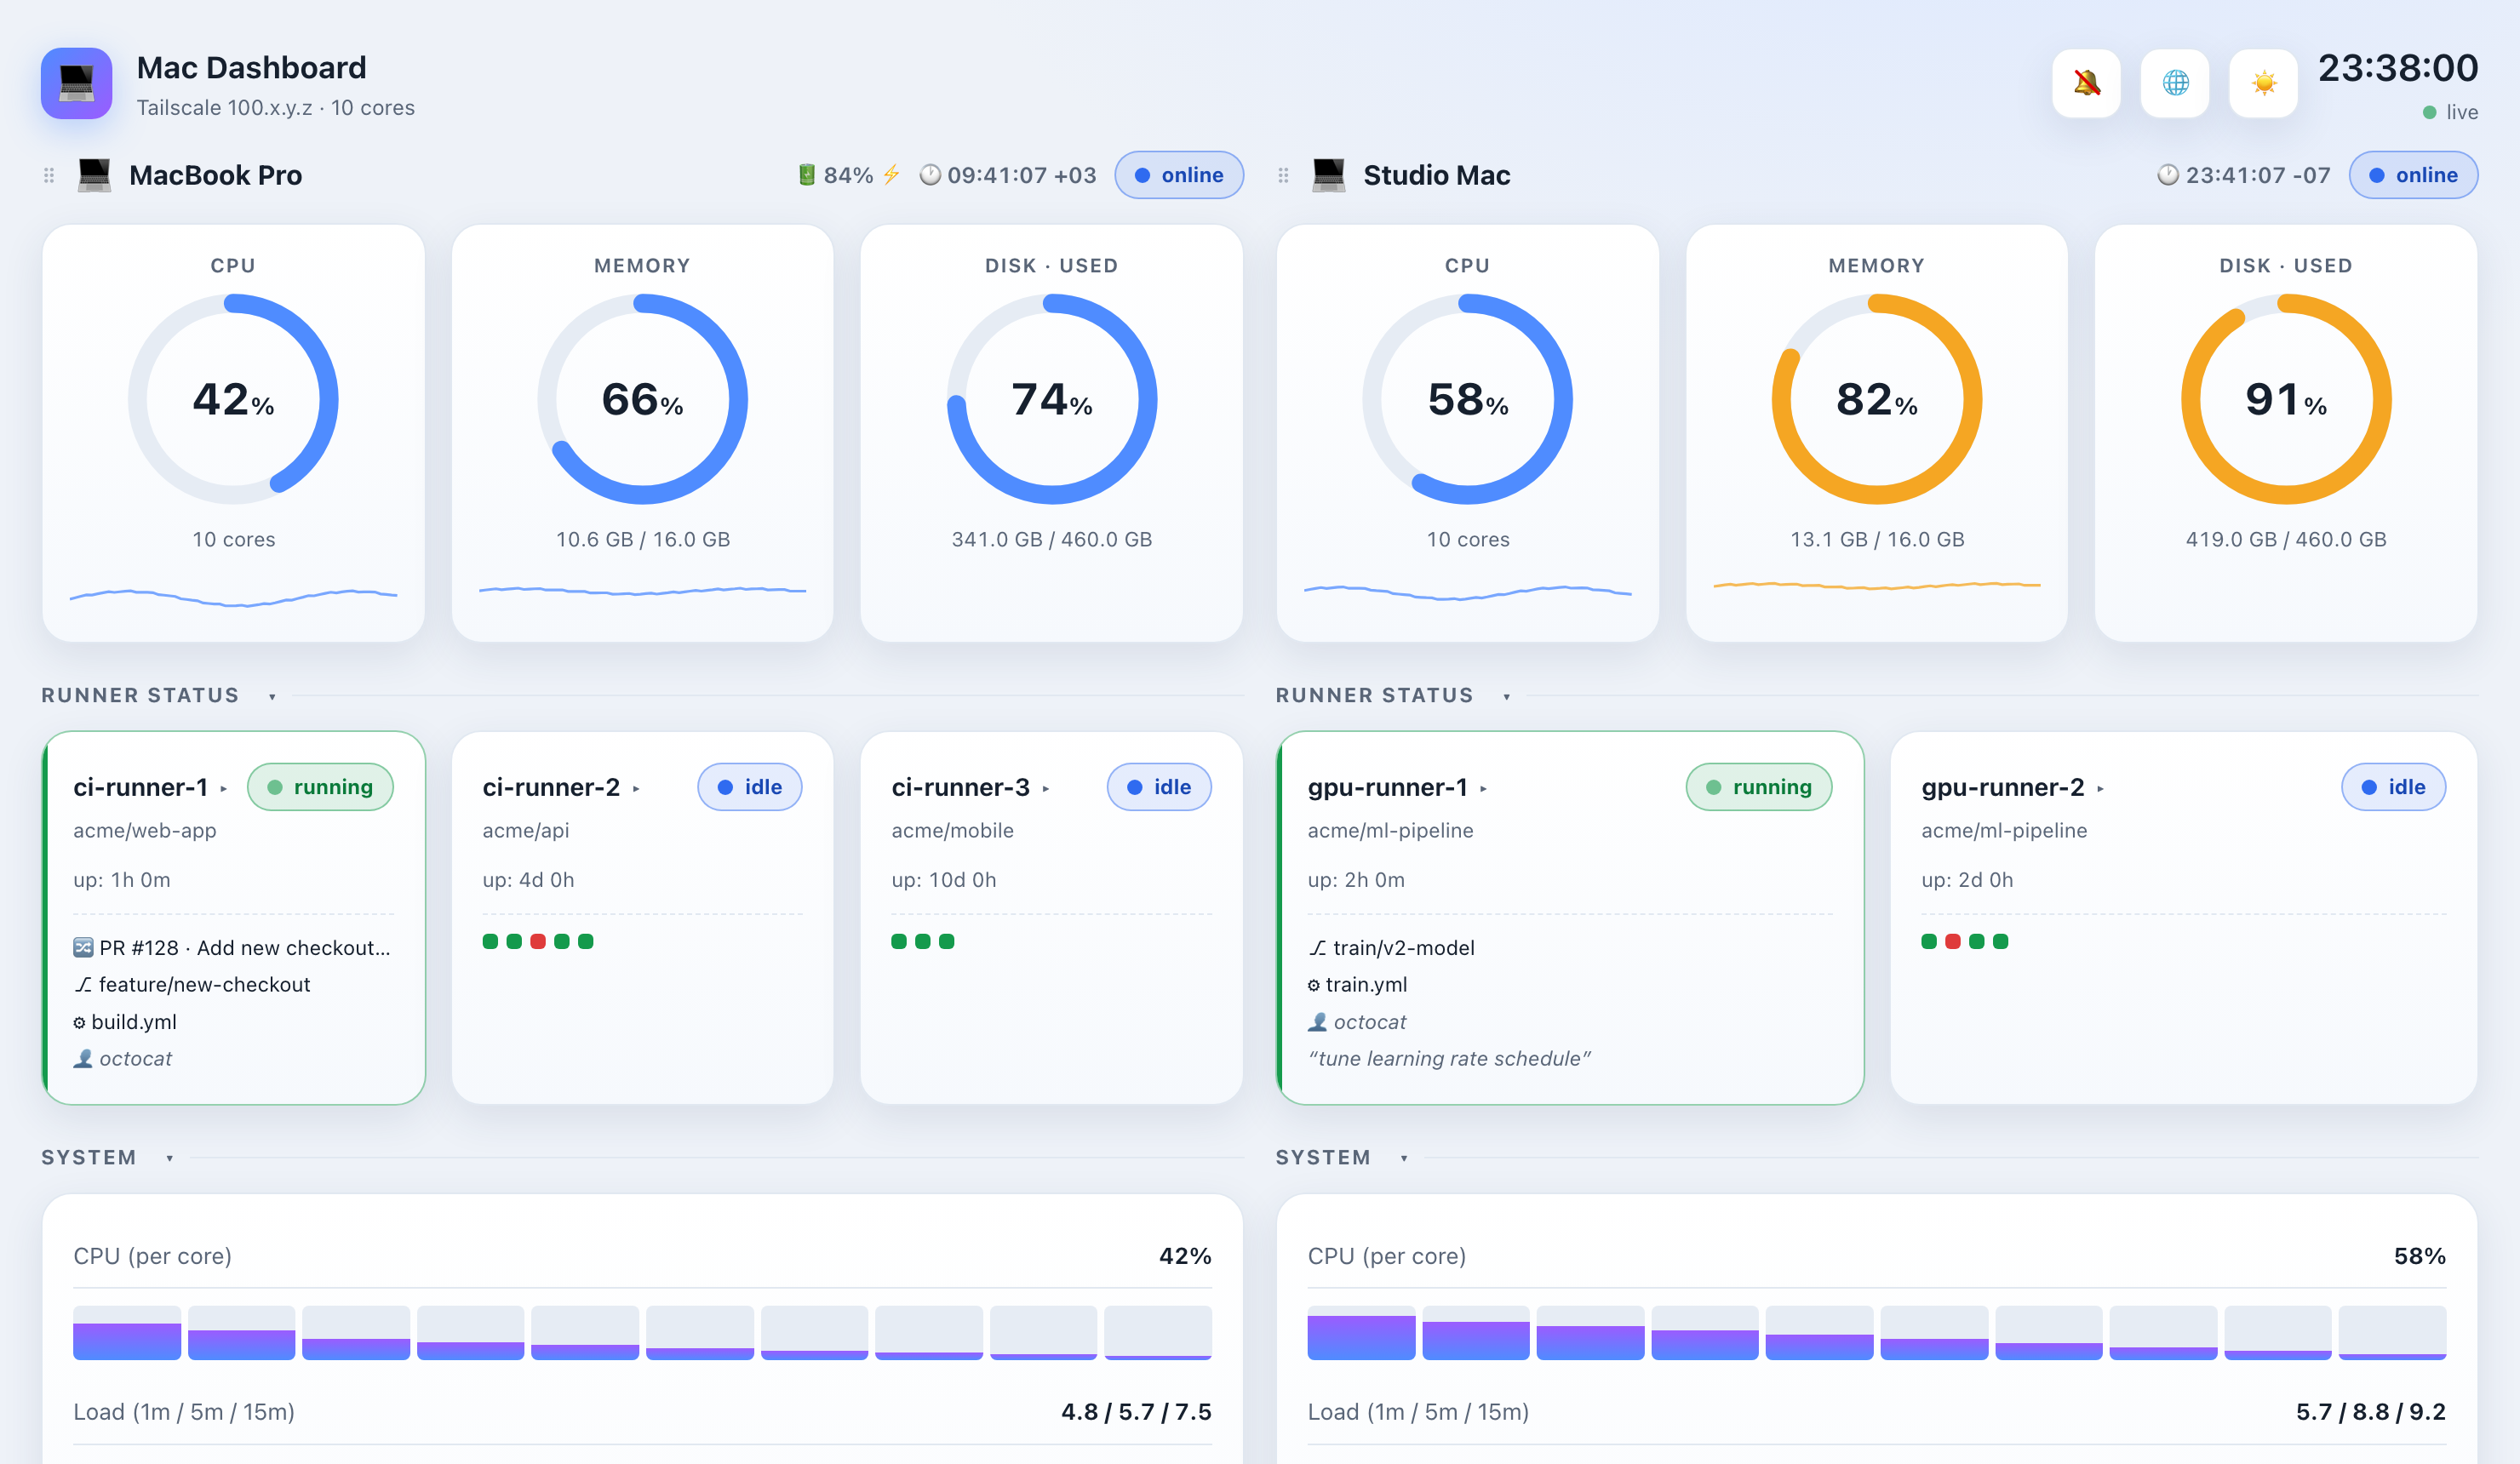
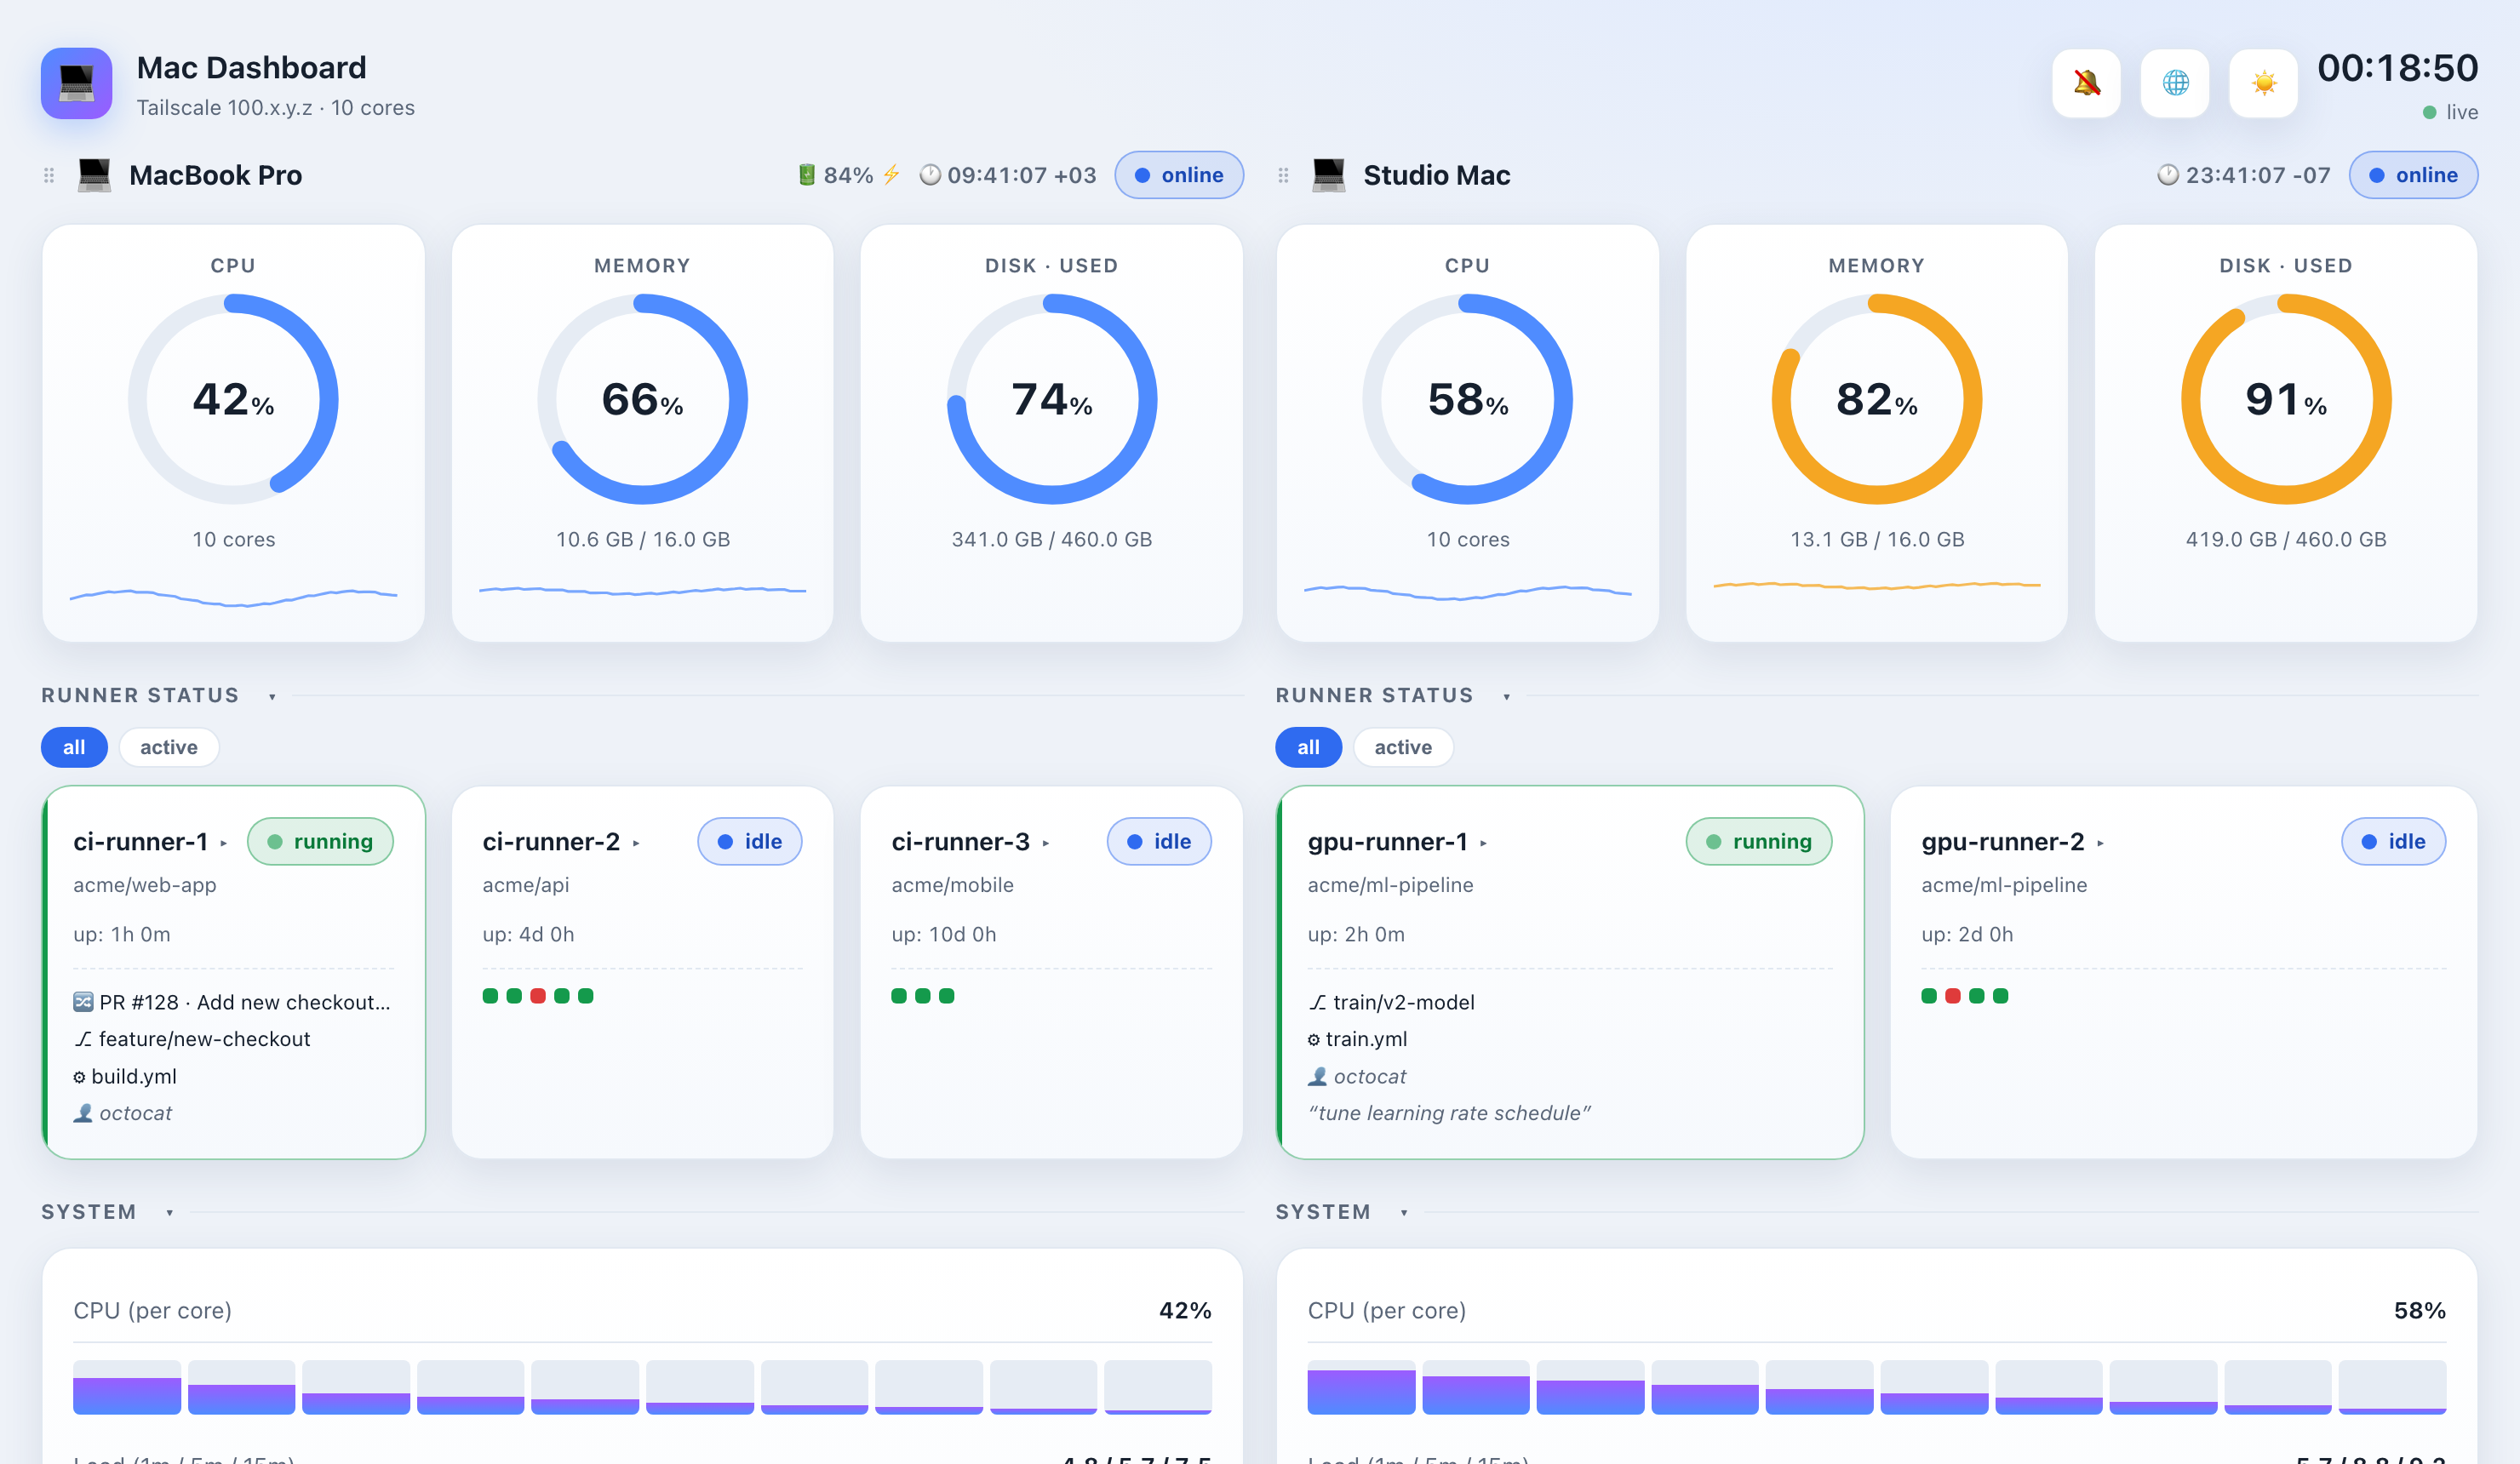
feat: night theme, runner all/active filter, chart crosshair, run tooltips (v1.7.0)
- Night theme: dimmed, desaturated, motion-free; toggle cycles auto→light→dark→night.
- Runner status filter: all vs active (busy) only.
- Time-series chart hover crosshair (value + time at cursor).
- Recent-run rows carry a full tooltip (workflow · branch/PR · result · duration ·
  exact date-time).
- Footer credit.

Claude-Session: https://claude.ai/code/session_01KFoMpwp6bskHCvmZus2cit

diff --git a/index.html b/index.html
@@ -13,8 +13,9 @@
 <link rel="apple-touch-icon" href="icon-180.png">
 <link rel="icon" type="image/png" sizes="192x192" href="icon-192.png">
 <script>(function(){var u=new URLSearchParams(location.search).get('theme');
-  var p=(u==='light'||u==='dark')?u:(localStorage.getItem('sysdash-theme')||'auto');
-  var d=(p==='light'||p==='dark')?p:(matchMedia('(prefers-color-scheme: dark)').matches?'dark':'light');
+  var x=function(v){return v==='light'||v==='dark'||v==='night'};
+  var p=x(u)?u:(localStorage.getItem('sysdash-theme')||'auto');
+  var d=x(p)?p:(matchMedia('(prefers-color-scheme: dark)').matches?'dark':'light');
   document.documentElement.dataset.theme=d;})();</script>
 <style>
   :root{
@@ -39,6 +40,20 @@
     --pill-busy-fg:#0a7a3a; --pill-busy-bg:rgba(20,154,76,.13); --pill-busy-bd:rgba(20,154,76,.45);
     --pill-off-fg:#52607a; --pill-off-bg:rgba(90,102,120,.12); --pill-off-bd:rgba(90,102,120,.4);
   }
+  /* night: very dark, low-contrast, desaturated, no motion — for working at night */
+  :root[data-theme="night"]{
+    --bg:#04060a; --panel:#080b10; --panel2:#0a0e14; --line:#161c26;
+    --txt:#8b97a8; --muted:#525d6e; --accent:#5777a0;
+    --green:#487a5f; --amber:#8f7740; --red:#9e5a5a; --gray:#384150;
+    --track:#090d12;
+    --bggrad:#04060a;
+    --shadow:none;
+    --pill-idle-fg:#7e93b3; --pill-idle-bg:rgba(87,119,160,.12); --pill-idle-bd:rgba(87,119,160,.3);
+    --pill-busy-fg:#6fae8c; --pill-busy-bg:rgba(72,122,95,.12); --pill-busy-bd:rgba(72,122,95,.3);
+    --pill-off-fg:#5b6677; --pill-off-bg:rgba(60,70,86,.14); --pill-off-bd:rgba(60,70,86,.35);
+  }
+  :root[data-theme="night"] *{animation:none!important}          /* no pulsing/motion */
+  :root[data-theme="night"] .wrap{filter:saturate(.6)}          /* calmer, less colorful */
   *{box-sizing:border-box;margin:0;padding:0}
   body{
     background:var(--bggrad);
@@ -145,6 +160,9 @@
   .pill.idle{color:var(--pill-idle-fg);background:var(--pill-idle-bg);border-color:var(--pill-idle-bd)}
   .pill.idle .d{background:var(--accent)}
   .pill.offline{color:var(--pill-off-fg);background:var(--pill-off-bg);border-color:var(--pill-off-bd)}
+  .runfilter{display:flex;gap:6px;margin:-2px 0 10px}
+  .rf{cursor:pointer;border:1px solid var(--line);background:var(--panel);color:var(--muted);font-size:12px;font-weight:600;padding:4px 12px;border-radius:999px;transition:background .2s,color .2s}
+  .rf.on{background:var(--accent);border-color:var(--accent);color:#fff}
   .pill.stale{color:var(--amber);background:rgba(245,166,35,.13);border-color:rgba(245,166,35,.4)}
   .pill.stale .d{background:var(--amber)}
   .pill.offline .d{background:var(--gray)}
@@ -254,8 +272,9 @@ const T = {
     live:'live', noConn:'no connection',
     highUse:'High usage:', refresh:'refreshes every 1s',
     online:'online', offline:'offline', stale:'stale', unreachable:'unreachable',
+    fAll:'all', fActive:'active', noActive:'No active runners',
     addMachine:'＋ machine', addUrl:'Machine address (IP or URL) — e.g. 100.121.169.10',
-    themeNames:{auto:'system', light:'light', dark:'dark'},
+    themeNames:{auto:'system', light:'light', dark:'dark', night:'night'},
     langName:'Language', dunit:{d:'d', h:'h', m:'m'},
   },
   tr: {
@@ -270,8 +289,9 @@ const T = {
     live:'canlı', noConn:'bağlantı yok',
     highUse:'Yüksek kullanım:', refresh:'her 1 sn yenilenir',
     online:'çevrimiçi', offline:'çevrimdışı', stale:'bayat', unreachable:'ulaşılamıyor',
+    fAll:'tümü', fActive:'aktif', noActive:'Aktif runner yok',
     addMachine:'＋ makine', addUrl:'Makine adresi (IP veya URL) — örn. 100.121.169.10',
-    themeNames:{auto:'sistem', light:'açık', dark:'koyu'},
+    themeNames:{auto:'sistem', light:'açık', dark:'koyu', night:'gece'},
     langName:'Dil', dunit:{d:'g', h:'s', m:'d'},
   },
 };
@@ -304,15 +324,15 @@ const mq=window.matchMedia('(prefers-color-scheme: dark)');
 function themePref(){return localStorage.getItem(TKEY)||'auto'}
 function applyTheme(){
   const u=new URLSearchParams(location.search).get('theme');
-  const p=(u==='light'||u==='dark')?u:themePref();
+  const p=(u==='light'||u==='dark'||u==='night')?u:themePref();
   const resolved=p==='auto'?(mq.matches?'dark':'light'):p;
   document.documentElement.dataset.theme=resolved;
-  tbtn.textContent = p==='auto'?'🌓':p==='light'?'☀️':'🌙';
+  tbtn.textContent = p==='auto'?'🌓':p==='light'?'☀️':p==='dark'?'🌙':'🌃';
   tbtn.title='Theme: '+t.themeNames[p];
 }
 tbtn.addEventListener('click',()=>{
-  const order=['auto','light','dark'];
-  localStorage.setItem(TKEY, order[(order.indexOf(themePref())+1)%3]);
+  const order=['auto','light','dark','night'];
+  localStorage.setItem(TKEY, order[(order.indexOf(themePref())+1)%order.length]);
   applyTheme();
 });
 mq.addEventListener('change',()=>{if(themePref()==='auto')applyTheme();});
@@ -410,6 +430,8 @@ function ringHTML(label,pct,meta,spark,chart){
   </div>`;
 }
 // collapsible sections (global across machines)
+function runFilter(){return localStorage.getItem('sysdash-runfilter')||'all'}
+function setRunFilter(v){localStorage.setItem('sysdash-runfilter',v);renderAll();}
 function collapseState(){try{return JSON.parse(localStorage.getItem('sysdash-collapse'))||{}}catch(e){return {}}}
 function isCollapsed(k){return !!collapseState()[k]}
 function toggleCollapse(k){const s=collapseState();s[k]=!s[k];localStorage.setItem('sysdash-collapse',JSON.stringify(s));renderAll();}
@@ -432,7 +454,9 @@ function machineHTML(host, entry){
     body = `<div class="card offline-card">⚠️ ${t.unreachable}<br><span style="font-size:12px">${host.base||''}</span></div>`;
   } else {
     const kv=(label,pct,txt)=>`<div class="kv"><span class="k">${label}</span><span class="v ${pct>=CRIT?'crit':''}">${txt}</span></div>`;
-    const runners = s.runners.length ? s.runners.map((r,ri)=>{
+    const rf=runFilter();
+    const rows=s.runners.map((r,ri)=>{
+      if(rf==='active' && r.status!=='busy') return '';
       return `<div class="card runner clickable ${r.status}" data-base="${esc(host.base)}" data-ri="${ri}" title="${L==='tr'?'detay için tıkla':'click for details'}">
         <div class="row1"><div class="name">${esc(r.name)}<span class="ext">▸</span></div>
           <span class="pill ${r.status}"><span class="d"></span>${t.st[r.status]}</span></div>
@@ -441,7 +465,13 @@ function machineHTML(host, entry){
         ${r.job?jobHTML(r.job):''}
         ${historyHTML(r.history)}
       </div>`;
-    }).join('') : `<div class="card" style="color:var(--muted);grid-column:1/-1">${t.noRunners}</div>`;
+    }).filter(Boolean);
+    const runners = rows.length ? rows.join('')
+      : `<div class="card" style="color:var(--muted);grid-column:1/-1">${rf==='active'?t.noActive:t.noRunners}</div>`;
+    const runnersInner = `<div class="runfilter">
+        <button class="rf ${rf==='all'?'on':''}" data-rf="all">${t.fAll}</button>
+        <button class="rf ${rf==='active'?'on':''}" data-rf="active">${t.fActive}</button>
+      </div><div class="grid runners">${runners}</div>`;
     const maxr=Math.max(...s.top.map(p=>p.rss),1);
     const sysInner = `<div class="card">
         <div class="kv"><span class="k">${t.perCore}</span><span class="v">${s.cpu.pct.toFixed(0)}%</span></div>
@@ -466,7 +496,7 @@ function machineHTML(host, entry){
         ${ringHTML(t.mem, s.mem.pct, gb(s.mem.used)+' / '+gb(s.mem.total), s.hist&&s.hist.mem, host.base+'|mem')}
         ${ringHTML(t.diskUsed, s.disk.pct, gb(s.disk.used)+' / '+gb(s.disk.total), s.hist&&s.hist.disk, host.base+'|disk')}
       </div>
-      ${sec('runners', t.runners, `<div class="grid runners">${runners}</div>`)}
+      ${sec('runners', t.runners, runnersInner)}
       ${sec('system', t.system, sysInner)}
       ${sec('procs', t.topMem, topInner)}`;
   }
@@ -512,7 +542,7 @@ function renderAll(){
   const self=lastData[''];
   document.getElementById('subtitle').textContent = self&&self.online ? t.sub(self.data.tailscale_ip, self.data.cpu.count) : '';
   document.getElementById('machines').innerHTML = hosts().map(h=>machineHTML(h, lastData[h.base])).join('');
-  document.getElementById('foot').textContent='sysdash'+(self&&self.online&&self.data.version?' v'+self.data.version:'')+' · '+t.refresh;
+  document.getElementById('foot').textContent='sysdash'+(self&&self.online&&self.data.version?' v'+self.data.version:'')+' · '+t.refresh+' · © Berkay Turancı';
   computeAlerts();
 }
 
@@ -546,6 +576,7 @@ mWrap.addEventListener('dragover',e=>{if(dragBase==null)return;e.preventDefault(
 mWrap.addEventListener('drop',e=>{if(dragBase==null)return;e.preventDefault();const m=e.target.closest('.machine');if(m){const order=hosts().map(h=>h.base).filter(b=>b!==dragBase);const ti=order.indexOf(m.dataset.base);order.splice(ti<0?order.length:ti,0,dragBase);setOrder(order);}dragBase=null;isDragging=false;renderAll();});
 mWrap.addEventListener('dragend',()=>{dragBase=null;isDragging=false;mWrap.querySelectorAll('.machine.dragover').forEach(x=>x.classList.remove('dragover'));});
 mWrap.addEventListener('click',e=>{
+  const rfb=e.target.closest('.rf'); if(rfb){setRunFilter(rfb.dataset.rf);return;}
   const st=e.target.closest('.section-title.collapsible'); if(st){toggleCollapse(st.dataset.sec);return;}
   const rn=e.target.closest('.runner.clickable'); if(rn){openRunner(rn.dataset.base,+rn.dataset.ri);return;}
   const g=e.target.closest('.gauge.clickable'); if(g&&g.dataset.chart){openChart(g.dataset.chart);}
@@ -563,7 +594,9 @@ function drawRunner(){
   const wfUrl=wf=>(r.repo&&wf)?'https://github.com/'+r.repo+'/actions/workflows/'+encodeURIComponent(wf):actions;
   const hist=(r.history&&r.history.length)?r.history.map(j=>{
     const ok=(j.result||'').toLowerCase()==='succeeded', cls=j.result?(ok?'ok':'fail'):'unk';
-    return `<a class="rm-run" href="${wfUrl(j.workflow)}" target="_blank" rel="noopener">
+    const when=new Date(Date.now()-(j.ago||0)*1000).toLocaleString([],{day:'2-digit',month:'short',hour:'2-digit',minute:'2-digit'});
+    const tip=`${j.workflow||'workflow'}${j.branch?' · '+j.branch:''} · ${j.result||'?'} · ${dur(j.dur)} · ${when}`;
+    return `<a class="rm-run" href="${wfUrl(j.workflow)}" target="_blank" rel="noopener" title="${esc(tip)}">
       <span class="hdot ${cls}"></span>
       <span class="rm-wf">${esc(j.workflow||'workflow')}${j.branch?' · '+esc(j.branch):''}</span>
       <span class="rm-meta">${j.result||'?'} · ${dur(j.dur)} · ${dur(j.ago)} ${L==='tr'?'önce':'ago'}</span>
@@ -584,20 +617,33 @@ document.getElementById('runnerClose').addEventListener('click',closeRunner);
 document.getElementById('runnerModal').addEventListener('click',e=>{if(e.target.id==='runnerModal')closeRunner();});
 
 // --- gauge chart modal ---
-let chartKey=null;
-function openChart(k){chartKey=k;drawChart();document.getElementById('chartModal').hidden=false;}
-function closeChart(){chartKey=null;document.getElementById('chartModal').hidden=true;}
+let chartKey=null, chartHover=null, _chartArr=[];
+const _CW=700,_CH=240,_CP=24;
+function openChart(k){chartKey=k;chartHover=null;drawChart();document.getElementById('chartModal').hidden=false;}
+function closeChart(){chartKey=null;chartHover=null;document.getElementById('chartModal').hidden=true;}
 function drawChart(){
   if(!chartKey)return;
   const [base,metric]=chartKey.split('|');
   const e=lastData[base]; if(!e||!e.online){closeChart();return;}
   const s=e.data, arr=(s.hist&&s.hist[metric])||[];
+  _chartArr=arr;
   const nm=base===''?s.host:(s.host||base), label=metric==='cpu'?t.cpu:metric==='mem'?t.mem:t.diskUsed;
   const cur=arr.length?arr[arr.length-1]:0, mx=arr.length?Math.max(...arr):0, mn=arr.length?Math.min(...arr):0;
   document.getElementById('chartTitle').textContent=nm+' · '+label;
-  const W=700,H=240,p=24;
-  const path=arr.length>1?arr.map((v,i)=>`${(p+i/(arr.length-1)*(W-2*p)).toFixed(1)},${(H-p-(Math.max(0,Math.min(100,v))/100)*(H-2*p)).toFixed(1)}`).join(' '):'';
-  const grid=[0,25,50,75,100].map(y=>{const yy=(H-p-(y/100)*(H-2*p)).toFixed(1);return `<line x1="${p}" y1="${yy}" x2="${W-p}" y2="${yy}" stroke="var(--line)" stroke-dasharray="3 4" opacity=".6"/><text x="2" y="${(+yy+4)}" fill="var(--muted)" font-size="10">${y}</text>`;}).join('');
+  const W=_CW,H=_CH,p=_CP;
+  const xat=i=>p+i/(Math.max(1,arr.length-1))*(W-2*p);
+  const yat=v=>H-p-(Math.max(0,Math.min(100,v))/100)*(H-2*p);
+  const path=arr.length>1?arr.map((v,i)=>`${xat(i).toFixed(1)},${yat(v).toFixed(1)}`).join(' '):'';
+  const grid=[0,25,50,75,100].map(y=>{const yy=yat(y).toFixed(1);return `<line x1="${p}" y1="${yy}" x2="${W-p}" y2="${yy}" stroke="var(--line)" stroke-dasharray="3 4" opacity=".6"/><text x="2" y="${(+yy+4)}" fill="var(--muted)" font-size="10">${y}</text>`;}).join('');
+  let cross='';
+  if(chartHover!=null && arr.length>1 && chartHover>=0 && chartHover<arr.length){
+    const i=chartHover, v=arr[i], x=xat(i), y=yat(v), age=arr.length-1-i;
+    const ageT=age<=0?(L==='tr'?'şimdi':'now'):age+'s'+(L==='tr'?' önce':' ago');
+    const anc=x>W*0.6?'end':'start', dx=x>W*0.6?-9:9;
+    cross=`<line x1="${x.toFixed(1)}" y1="${p}" x2="${x.toFixed(1)}" y2="${H-p}" stroke="var(--muted)" stroke-dasharray="3 3" opacity=".8"/>
+      <circle cx="${x.toFixed(1)}" cy="${y.toFixed(1)}" r="3.6" fill="#4f8cff"/>
+      <text x="${(x+dx).toFixed(1)}" y="${Math.max(p+12,y-9).toFixed(1)}" fill="var(--txt)" font-size="12.5" font-weight="700" text-anchor="${anc}">${v.toFixed(0)}% · ${ageT}</text>`;
+  }
   document.getElementById('chartBody').innerHTML=`
     <div style="display:flex;gap:18px;color:var(--muted);font-size:13px;margin-bottom:10px">
       <span>${L==='tr'?'şu an':'now'}: <b style="color:var(--txt)">${cur.toFixed(0)}%</b></span>
@@ -605,11 +651,19 @@ function drawChart(){
       <span>min: <b style="color:var(--txt)">${mn.toFixed(0)}%</b></span>
       <span style="margin-left:auto">${L==='tr'?'son':'last'} ~${Math.max(1,Math.round(arr.length/60))} ${L==='tr'?'dk':'min'}</span>
     </div>
-    <svg viewBox="0 0 ${W} ${H}" style="width:100%;height:auto;display:block">${grid}
-      <polyline points="${path}" fill="none" stroke="#4f8cff" stroke-width="2" vector-effect="non-scaling-stroke"/></svg>`;
+    <svg id="chartSvg" viewBox="0 0 ${W} ${H}" style="width:100%;height:auto;display:block;cursor:crosshair">${grid}
+      <polyline points="${path}" fill="none" stroke="#4f8cff" stroke-width="2" vector-effect="non-scaling-stroke"/>${cross}</svg>`;
 }
 document.getElementById('chartClose').addEventListener('click',closeChart);
 document.getElementById('chartModal').addEventListener('click',e=>{if(e.target.id==='chartModal')closeChart();});
+document.getElementById('chartBody').addEventListener('mousemove',e=>{
+  const svg=document.getElementById('chartSvg'); if(!svg||_chartArr.length<2)return;
+  const r=svg.getBoundingClientRect();
+  const f=((e.clientX-r.left)/r.width - _CP/_CW)/((_CW-2*_CP)/_CW);
+  const idx=Math.round(Math.max(0,Math.min(1,f))*(_chartArr.length-1));
+  if(idx!==chartHover){chartHover=idx;drawChart();}
+});
+document.getElementById('chartBody').addEventListener('mouseleave',()=>{if(chartHover!=null){chartHover=null;drawChart();}});
 document.addEventListener('keydown',e=>{if(e.key==='Escape'){closeChart();closeRunner();}});
 
 // --- notifications bell ---

diff --git a/server.py b/server.py
@@ -21,7 +21,7 @@ import psutil
 
 HERE = os.path.dirname(os.path.abspath(__file__))
 PORT = int(os.environ.get("SYSDASH_PORT", "8765"))
-VERSION = "1.6.0"
+VERSION = "1.7.0"
 
 # Self-hosted runners installed on this Mac.
 HOME = os.path.expanduser("~")

diff --git a/CHANGELOG.md b/CHANGELOG.md
@@ -4,6 +4,20 @@ All notable changes to this project are documented here. The format is based on
 [Keep a Changelog](https://keepachangelog.com/), and this project adheres to
 [Semantic Versioning](https://semver.org/).
 
+## [1.7.0] - 2026-06-23
+
+### Added
+- **Night theme** — a dimmed, desaturated, motion-free mode for working late
+  (theme toggle now cycles auto → light → dark → night).
+- **Runner filter** — show all runners or only the active (busy) ones.
+- **Chart hover crosshair** — hovering the time-series chart shows the value and
+  how long ago at the cursor.
+- **Runner history tooltips** — each recent run shows full workflow · branch/PR ·
+  result · duration · exact date-time on hover.
+- Footer credit.
+
+[1.7.0]: https://github.com/berkayturanci/mac-sysdash/releases/tag/v1.7.0
+
 ## [1.6.0] - 2026-06-22
 
 ### Added

diff --git a/README.md b/README.md
@@ -3,7 +3,7 @@
 ![platform](https://img.shields.io/badge/platform-macOS-black)
 ![python](https://img.shields.io/badge/python-3.9%2B-blue)
 ![license](https://img.shields.io/badge/license-MIT-green)
-![version](https://img.shields.io/badge/version-1.6.0-blue)
+![version](https://img.shields.io/badge/version-1.7.0-blue)
 
 A tiny, dependency-light **system + GitHub Actions runner dashboard** for macOS,
 reachable over your LAN or [Tailscale](https://tailscale.com/) from any device.
@@ -43,12 +43,15 @@ the installer sets that up for you in an isolated virtualenv.
 - **System detail** — per-core CPU bars, load average, RAM/swap/disk, network
   throughput, battery, uptime, and the top memory-consuming processes.
 - **Trends** — a 60-second sparkline under each gauge (CPU / memory / disk);
-  **click a gauge** for a larger ~5-minute time-series chart.
+  **click a gauge** for a larger ~5-minute time-series chart with a **hover
+  crosshair** (value + time at the cursor).
+- **Runner filter** — show **all** runners or only the **active** (busy) ones.
 - **Notifications** — desktop/phone alerts when a metric goes critical (needs HTTPS).
 - **Per-machine local time** (with timezone) — handy across timezones.
 - **Installable (PWA)** — "Add to Home Screen" on iOS/Android for an app-like,
   full-screen view from your phone.
-- **Light / dark / auto theme** following the system appearance, with a toggle.
+- **Light / dark / night / auto theme** following the system appearance, with a
+  toggle. **Night** is a dimmed, desaturated, motion-free mode for working late.
 - **English / Turkish UI** — defaults to the system language, with an
   auto / EN / TR selector.
 - **Light on resources** — ~20 MB RAM, ≈0 % CPU. Runs at login and self-restarts